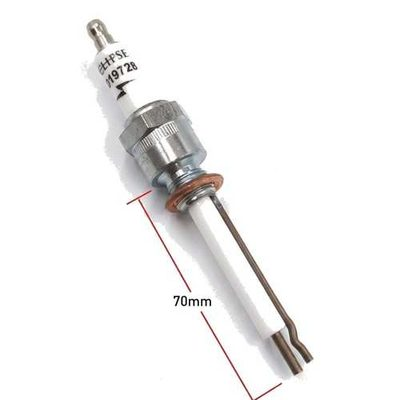
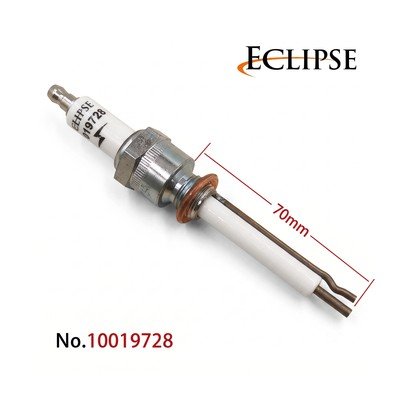
Update 10019728: official photo + cross-reference spec
Replaced the placeholder image with the official Honeywell Eclipse catalog photo (logo + 70mm dimension line), unmodified, JPG-converted. Added a Cross-Reference spec row: direct replacement for legacy part number 16927-1.

diff --git a/products/honeywell-eclipse-10019728.html b/products/honeywell-eclipse-10019728.html
@@ -12,7 +12,7 @@
 <link rel="canonical" href="https://rkic1976-bot.github.io/RKIC-SITE/products/honeywell-eclipse-10019728.html">
 <meta property="og:type" content="product">
 <meta property="og:title" content="Honeywell Eclipse Spark Ignition Electrode 10019728">
-<meta property="og:description" content="The Honeywell Eclipse 10019728 (also marked 019728) is a self-grounding burner spark ignition electrode with a 70mm base depth and M14 x 1.25mm threaded mounting. It features a 1.5mm fixed spark gap, a 13/16 in. hex nut for installation, and a removable 8-32 NC terminal for ignition cable connection. Rated for continuous operation from -100 degC to 1350 degC, it is used on Eclipse AH air-heating burners and similar specialized industrial combustion equipment. Manufactured by Honeywell Eclipse.">
+<meta property="og:description" content="The Honeywell Eclipse 10019728 (also marked 019728) is a self-grounding burner spark ignition electrode with a 70mm base depth and M14 x 1.25mm threaded mounting. It features a 1.5mm fixed spark gap, a 13/16 in. hex nut for installation, and a removable 8-32 NC terminal for ignition cable connection. Rated for continuous operation from -100 degC to 1350 degC, it is used on Eclipse AH air-heating burners and similar specialized industrial combustion equipment, and is a direct replacement for legacy part number 16927-1. Manufactured by Honeywell Eclipse.">
 <meta property="og:url" content="https://rkic1976-bot.github.io/RKIC-SITE/products/honeywell-eclipse-10019728.html">
 <meta property="og:image" content="https://rkic1976-bot.github.io/RKIC-SITE/images/honeywell-eclipse-10019728-large.jpg">
 <meta property="og:image:width" content="500">
@@ -20,9 +20,9 @@
 <meta property="og:site_name" content="R.K. Instruments &amp; Controls">
 <meta name="twitter:card" content="summary_large_image">
 <meta name="twitter:title" content="Honeywell Eclipse Spark Ignition Electrode 10019728">
-<meta name="twitter:description" content="The Honeywell Eclipse 10019728 (also marked 019728) is a self-grounding burner spark ignition electrode with a 70mm base depth and M14 x 1.25mm threaded mounting. It features a 1.5mm fixed spark gap, a 13/16 in. hex nut for installation, and a removable 8-32 NC terminal for ignition cable connection. Rated for continuous operation from -100 degC to 1350 degC, it is used on Eclipse AH air-heating burners and similar specialized industrial combustion equipment. Manufactured by Honeywell Eclipse.">
+<meta name="twitter:description" content="The Honeywell Eclipse 10019728 (also marked 019728) is a self-grounding burner spark ignition electrode with a 70mm base depth and M14 x 1.25mm threaded mounting. It features a 1.5mm fixed spark gap, a 13/16 in. hex nut for installation, and a removable 8-32 NC terminal for ignition cable connection. Rated for continuous operation from -100 degC to 1350 degC, it is used on Eclipse AH air-heating burners and similar specialized industrial combustion equipment, and is a direct replacement for legacy part number 16927-1. Manufactured by Honeywell Eclipse.">
 <meta name="twitter:image" content="https://rkic1976-bot.github.io/RKIC-SITE/images/honeywell-eclipse-10019728-large.jpg">
-<script type="application/ld+json">{"@context": "https://schema.org", "@type": "Product", "name": "Honeywell Eclipse Spark Ignition Electrode 10019728", "sku": "10019728", "mpn": "10019728", "description": "The Honeywell Eclipse 10019728 (also marked 019728) is a self-grounding burner spark ignition electrode with a 70mm base depth and M14 x 1.25mm threaded mounting. It features a 1.5mm fixed spark gap, a 13/16 in. hex nut for installation, and a removable 8-32 NC terminal for ignition cable connection. Rated for continuous operation from -100 degC to 1350 degC, it is used on Eclipse AH air-heating burners and similar specialized industrial combustion equipment. Manufactured by Honeywell Eclipse.", "brand": {"@type": "Brand", "name": "Honeywell Eclipse"}, "category": "SPARK ELECTRODES", "manufacturer": {"@type": "Organization", "name": "Honeywell Eclipse"}, "image": "https://rkic1976-bot.github.io/RKIC-SITE/images/honeywell-eclipse-10019728-large.jpg", "url": "https://rkic1976-bot.github.io/RKIC-SITE/products/honeywell-eclipse-10019728.html"}</script>
+<script type="application/ld+json">{"@context": "https://schema.org", "@type": "Product", "name": "Honeywell Eclipse Spark Ignition Electrode 10019728", "sku": "10019728", "mpn": "10019728", "description": "The Honeywell Eclipse 10019728 (also marked 019728) is a self-grounding burner spark ignition electrode with a 70mm base depth and M14 x 1.25mm threaded mounting. It features a 1.5mm fixed spark gap, a 13/16 in. hex nut for installation, and a removable 8-32 NC terminal for ignition cable connection. Rated for continuous operation from -100 degC to 1350 degC, it is used on Eclipse AH air-heating burners and similar specialized industrial combustion equipment, and is a direct replacement for legacy part number 16927-1. Manufactured by Honeywell Eclipse.", "brand": {"@type": "Brand", "name": "Honeywell Eclipse"}, "category": "SPARK ELECTRODES", "manufacturer": {"@type": "Organization", "name": "Honeywell Eclipse"}, "image": "https://rkic1976-bot.github.io/RKIC-SITE/images/honeywell-eclipse-10019728-large.jpg", "url": "https://rkic1976-bot.github.io/RKIC-SITE/products/honeywell-eclipse-10019728.html"}</script>
 <script type="application/ld+json">{"@context": "https://schema.org", "@type": "BreadcrumbList", "itemListElement": [{"@type": "ListItem", "position": 1, "name": "Home", "item": "https://rkic1976-bot.github.io/RKIC-SITE/"}, {"@type": "ListItem", "position": 2, "name": "Catalog", "item": "https://rkic1976-bot.github.io/RKIC-SITE/#catalog"}, {"@type": "ListItem", "position": 3, "name": "Spark Electrodes", "item": "https://rkic1976-bot.github.io/RKIC-SITE/categories/spark-electrodes.html"}, {"@type": "ListItem", "position": 4, "name": "Honeywell Eclipse Spark Ignition Electrode 10019728", "item": "https://rkic1976-bot.github.io/RKIC-SITE/products/honeywell-eclipse-10019728.html"}]}</script>
 <link rel="preconnect" href="https://fonts.googleapis.com">
 <link href="https://fonts.googleapis.com/css2?family=Barlow+Condensed:wght@500;600;700&family=Barlow:wght@400;500;600&family=IBM+Plex+Mono:wght@400;500&display=swap" rel="stylesheet">
@@ -542,9 +542,10 @@ footer{ background:var(--steel); color:var(--ink); margin-top:56px; }
 <div class="pg-spec-row"><span class="pg-spec-k">Operating Temperature</span><span class="pg-spec-v">-100&deg;C to 1350&deg;C</span></div>
 <div class="pg-spec-row"><span class="pg-spec-k">Burner Compatibility</span><span class="pg-spec-v">Eclipse AH air-heating burners and similar specialized industrial equipment</span></div>
 <div class="pg-spec-row"><span class="pg-spec-k">Electrode &amp; Wiring Material</span><span class="pg-spec-v">Kanthal A1 (FeCrAl resistance wire)</span></div>
+<div class="pg-spec-row"><span class="pg-spec-k">Cross-Reference</span><span class="pg-spec-v">Direct replacement for legacy part number 16927-1</span></div>
 <div class="pg-spec-row"><span class="pg-spec-k">Manufacturer</span><span class="pg-spec-v">Honeywell Eclipse</span></div>
       </div>
-      <p class="pg-desc">The Honeywell Eclipse 10019728 (also marked 019728) is a self-grounding burner spark ignition electrode with a 70mm base depth and M14 x 1.25mm threaded mounting. It features a 1.5mm fixed spark gap, a 13/16 in. hex nut for installation, and a removable 8-32 NC terminal for ignition cable connection. Rated for continuous operation from -100 degC to 1350 degC, it is used on Eclipse AH air-heating burners and similar specialized industrial combustion equipment. Manufactured by Honeywell Eclipse.</p>
+      <p class="pg-desc">The Honeywell Eclipse 10019728 (also marked 019728) is a self-grounding burner spark ignition electrode with a 70mm base depth and M14 x 1.25mm threaded mounting. It features a 1.5mm fixed spark gap, a 13/16 in. hex nut for installation, and a removable 8-32 NC terminal for ignition cable connection. Rated for continuous operation from -100 degC to 1350 degC, it is used on Eclipse AH air-heating burners and similar specialized industrial combustion equipment, and is a direct replacement for legacy part number 16927-1. Manufactured by Honeywell Eclipse.</p>
       <div class="pg-cta">
         <a class="pg-btn pg-btn-primary" href="https://wa.me/919824136145?text=Enquiry%20for%20Honeywell%20Eclipse%20Spark%20Ignition%20Electrode%2010019728" target="_blank" rel="noopener">Enquire on WhatsApp</a>
         <a class="pg-btn pg-btn-secondary" href="#contact">Contact Us</a>

diff --git a/index.html b/index.html
@@ -2148,9 +2148,10 @@
         'Operating Temperature': '-100°C to 1350°C',
         'Burner Compatibility': 'Eclipse AH air-heating burners and similar specialized industrial equipment',
         'Electrode & Wiring Material': 'Kanthal A1 (FeCrAl resistance wire)',
+        'Cross-Reference': 'Direct replacement for legacy part number 16927-1',
         'Manufacturer': 'Honeywell Eclipse'
       },
-      description: 'The Honeywell Eclipse 10019728 (marked 019728) is a self-grounding spark electrode / ignition rod that initiates the ignition process in industrial gas burners, engineered for direct spark configurations. It has a 70mm electrode base depth, an M14 x 1.25mm mounting thread, and a 13/16-inch hex nut for installation into the burner head. The electrode carries a removable terminal with an 8-32 NC thread for the ignition lead, with an integrated self-grounding rod setting a 1.5mm electrode gap. Rated for an operating temperature range of -100°C to 1350°C. Manufactured by Honeywell Eclipse, it is primarily used in Eclipse AH air-heating burners and similar specialized industrial equipment.'
+      description: 'The Honeywell Eclipse 10019728 (marked 019728) is a self-grounding spark electrode / ignition rod that initiates the ignition process in industrial gas burners, engineered for direct spark configurations. It has a 70mm electrode base depth, an M14 x 1.25mm mounting thread, and a 13/16-inch hex nut for installation into the burner head. The electrode carries a removable terminal with an 8-32 NC thread for the ignition lead, with an integrated self-grounding rod setting a 1.5mm electrode gap. Rated for an operating temperature range of -100°C to 1350°C. Manufactured by Honeywell Eclipse, it is primarily used in Eclipse AH air-heating burners and similar specialized industrial equipment, and is a direct replacement for legacy part number 16927-1.'
     },
     {
       id: 'honeywell-eclipse-23045',
